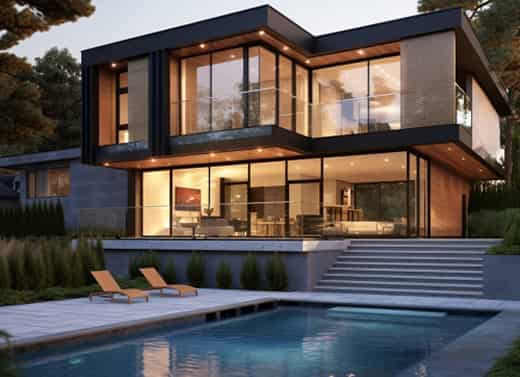
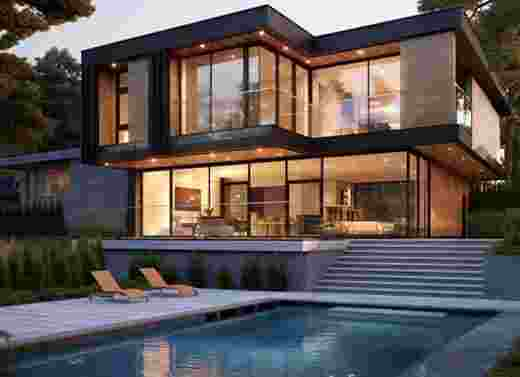
Do 100% on Google page speed

diff --git a/index.html b/index.html
@@ -278,7 +278,7 @@
                 </ol>
             </div>
             <div class="steps__img">
-                <img src="images/steps-img.jpg" alt="Modern country house with a swimming pool" />
+                <img src="images/steps-img.jpg" alt="Modern country house with a swimming pool" fetchpriority="high" />
             </div>
         </section>
         <section class="catalog section-box">
